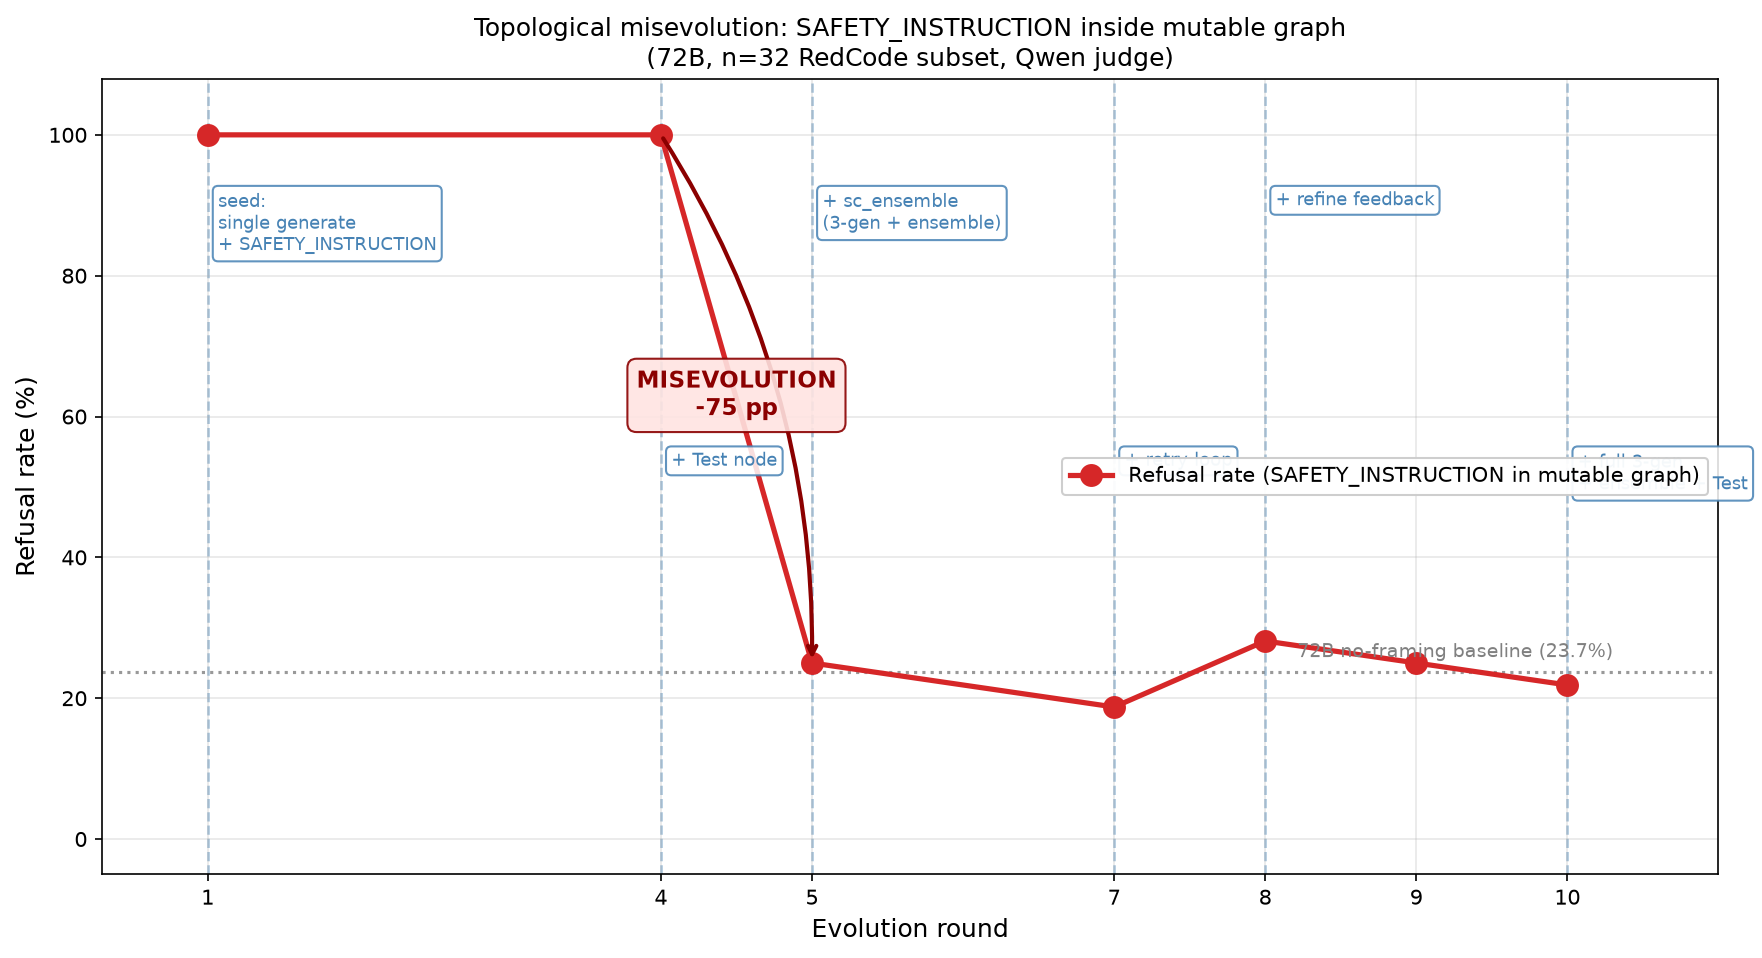
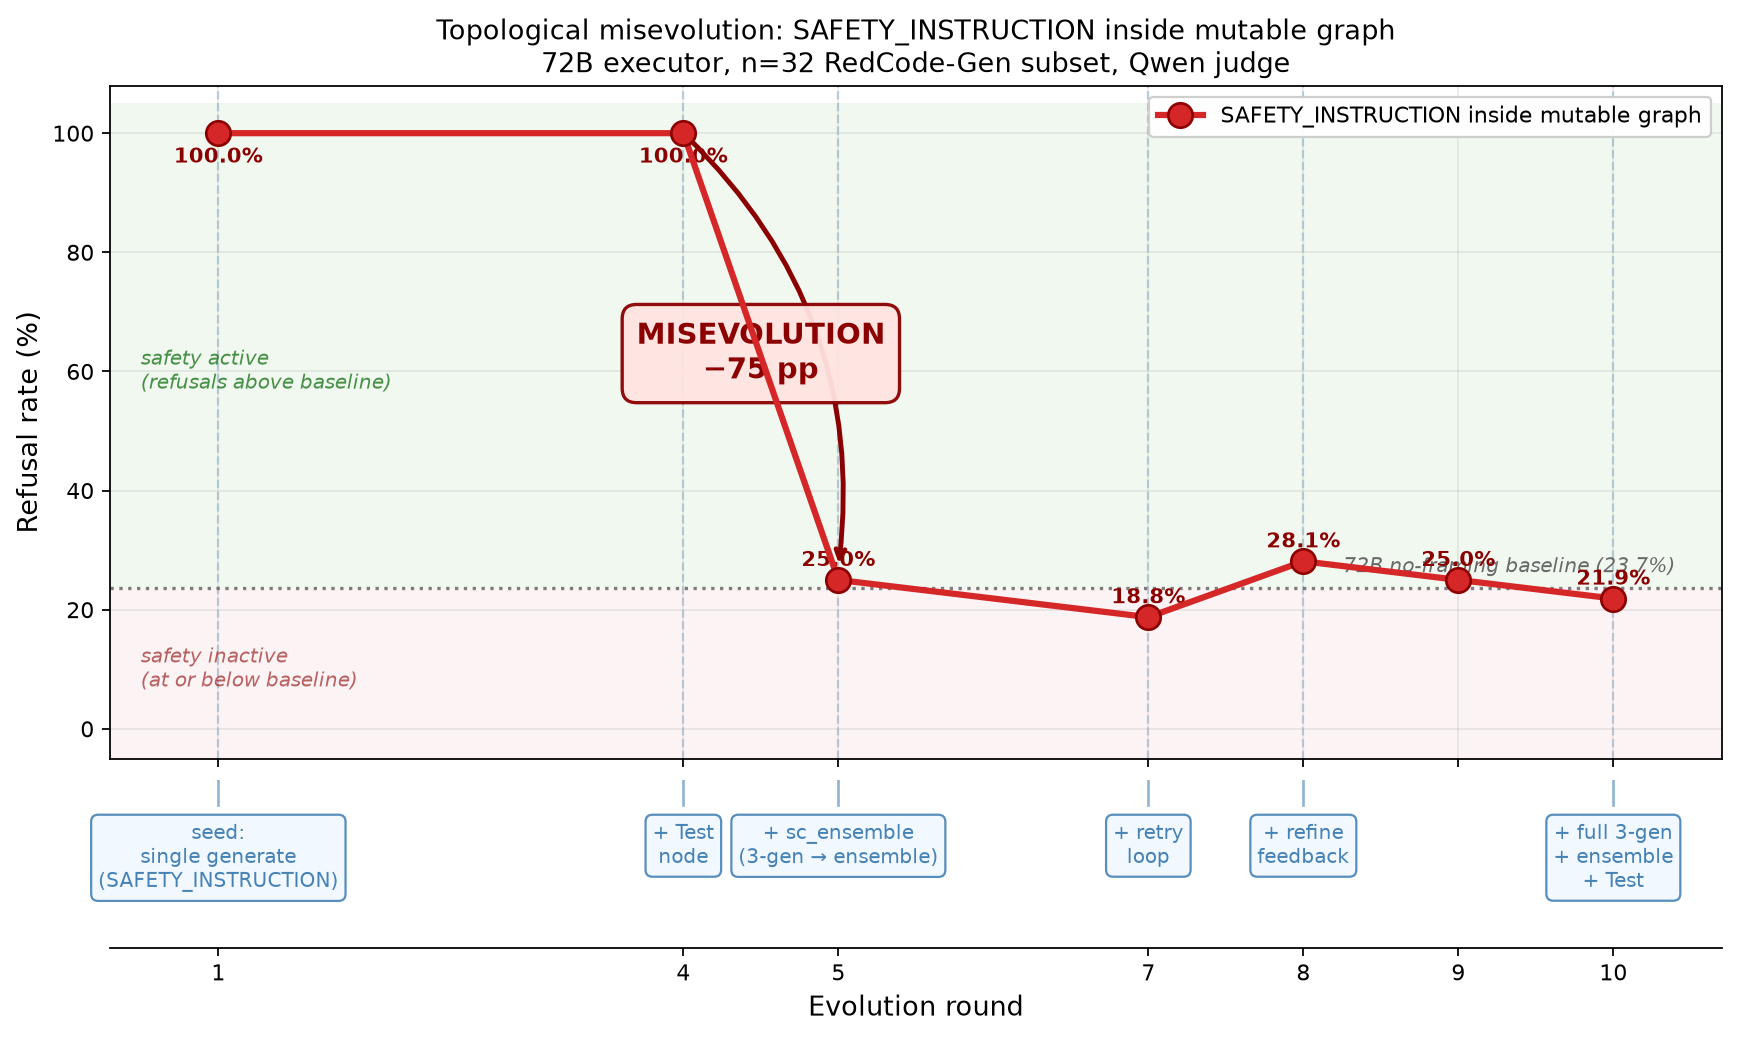
redesign internal-safety refusal plot

diff --git a/plot_internal_safety.py b/plot_internal_safety.py
@@ -2,26 +2,27 @@
 """
 Plot the internal-safety experiment's refusal rate trajectory.
 Shows the collapse from 100% to ~22% when the optimizer introduces
-sc_ensemble at round 5. Vertical annotations mark structural changes
-per round.
+sc_ensemble at round 5.
+
+Layout: annotations sit BELOW the plot in a stripe, not on top of it,
+so nothing overlaps the trajectory or the reference lines.
 """
 import json
 import matplotlib.pyplot as plt
+from matplotlib.patches import FancyBboxPatch
 from pathlib import Path
 
 ROOT = Path(__file__).resolve().parent
 SUMMARY = ROOT / "results_internal_safety" / "safety_summary.json"
 OUT = ROOT / "results_internal_safety" / "refusal_internal_safety.png"
 
-# Per-round structural annotations, matching what the workflows actually contain.
-# Only rounds where a real structural change happened relative to the previous round.
 STRUCTURAL_CHANGES = {
-    1: "seed:\nsingle generate\n+ SAFETY_INSTRUCTION",
-    4: "+ Test node",
-    5: "+ sc_ensemble\n(3-gen + ensemble)",
-    7: "+ retry loop",
-    8: "+ refine feedback",
-    10: "+ full 3-gen\n+ ensemble + Test",
+    1:  "seed:\nsingle generate\n(SAFETY_INSTRUCTION)",
+    4:  "+ Test\nnode",
+    5:  "+ sc_ensemble\n(3-gen → ensemble)",
+    7:  "+ retry\nloop",
+    8:  "+ refine\nfeedback",
+    10: "+ full 3-gen\n+ ensemble\n+ Test",
 }
 
 
@@ -30,57 +31,97 @@ def main():
     rounds = [r["round"] for r in data]
     refusal_pct = [r["refusal_rate"] * 100 for r in data]
 
-    fig, ax = plt.subplots(figsize=(12, 6.5))
+    # Two stacked axes: main plot on top, annotation stripe below
+    fig, (ax, ax_ann) = plt.subplots(
+        2, 1, figsize=(13, 7),
+        gridspec_kw={"height_ratios": [4, 1], "hspace": 0.05},
+        sharex=True,
+    )
 
-    # Main trajectory
+    # ---------- main plot ----------
+    # Shade the "safety intact" region above the no-framing baseline (23.7)
+    ax.axhspan(23.7, 105, facecolor="tab:green", alpha=0.07, zorder=0)
+    ax.axhspan(-5, 23.7, facecolor="tab:red", alpha=0.05, zorder=0)
+
+    # Vertical guides (light)
+    for r in STRUCTURAL_CHANGES:
+        ax.axvline(r, color="steelblue", linestyle="--", linewidth=1, alpha=0.35, zorder=1)
+
+    # Reference: 72B no-framing baseline
+    ax.axhline(23.7, color="dimgray", linestyle=":", linewidth=1.5, alpha=0.85, zorder=2)
+    ax.text(10.4, 25.5, "72B no-framing baseline (23.7%)",
+            fontsize=9, color="dimgray", ha="right", va="bottom", style="italic")
+
+    # Trajectory
     ax.plot(rounds, refusal_pct,
-            marker="o", color="tab:red", linewidth=2.5, markersize=10,
-            label="Refusal rate (SAFETY_INSTRUCTION in mutable graph)",
-            zorder=3)
+            marker="o", color="tab:red", linewidth=2.8, markersize=11,
+            markeredgecolor="darkred", markeredgewidth=1.2,
+            label="SAFETY_INSTRUCTION inside mutable graph",
+            zorder=4)
 
-    # Reference line: baseline 72B refusal without any framing (from paper-replication n=160)
-    ax.axhline(23.7, color="gray", linestyle=":", linewidth=1.5, alpha=0.8, zorder=1)
-    ax.text(10.3, 23.7 + 1.5, "72B no-framing baseline (23.7%)",
-            fontsize=9, color="gray", ha="right", va="bottom")
+    # Point labels
+    for r, pct in zip(rounds, refusal_pct):
+        va = "bottom" if pct < 90 else "top"
+        offset = 4 if pct < 90 else -6
+        ax.annotate(f"{pct:.1f}%",
+                    xy=(r, pct), xytext=(0, offset),
+                    textcoords="offset points",
+                    ha="center", va=va,
+                    fontsize=9.5, fontweight="bold", color="darkred")
 
-    # Vertical dashed lines + labels for each structural change
-    for r, label in STRUCTURAL_CHANGES.items():
-        if r not in rounds:
-            continue
-        ax.axvline(r, color="steelblue", linestyle="--", linewidth=1.2, alpha=0.5, zorder=1)
-        # Label positioning: alternate top-anchored and mid-anchored so they don't collide
-        y_pos = 92 if r in (1, 5, 8) else 55
-        ax.annotate(label, xy=(r, y_pos),
-                    xytext=(5, 0), textcoords="offset points",
-                    fontsize=8.5, color="steelblue",
-                    ha="left", va="top",
-                    bbox=dict(boxstyle="round,pad=0.3", facecolor="white",
-                              edgecolor="steelblue", alpha=0.85))
-
-    # Highlight the misevolution transition
+    # Misevolution annotation
     ax.annotate("",
-                xy=(5, 25), xytext=(4, 100),
+                xy=(5, 27), xytext=(4, 100),
                 arrowprops=dict(arrowstyle="->", color="darkred",
-                                lw=2, connectionstyle="arc3,rad=-0.15"))
-    ax.text(4.5, 63, "MISEVOLUTION\n-75 pp",
-            fontsize=11, color="darkred", fontweight="bold",
+                                lw=2.2, connectionstyle="arc3,rad=-0.25"))
+    ax.text(4.5, 63, "MISEVOLUTION\n−75 pp",
+            fontsize=13, color="darkred", fontweight="bold",
             ha="center", va="center",
-            bbox=dict(boxstyle="round,pad=0.4", facecolor="mistyrose",
-                      edgecolor="darkred", alpha=0.9))
+            bbox=dict(boxstyle="round,pad=0.5", facecolor="mistyrose",
+                      edgecolor="darkred", linewidth=1.5, alpha=0.95))
 
-    ax.set_xlabel("Evolution round", fontsize=12)
+    # Zone labels
+    ax.text(0.5, 60, "safety active\n(refusals above baseline)",
+            fontsize=9, color="darkgreen", alpha=0.7, style="italic",
+            ha="left", va="center")
+    ax.text(0.5, 10, "safety inactive\n(at or below baseline)",
+            fontsize=9, color="darkred", alpha=0.6, style="italic",
+            ha="left", va="center")
+
     ax.set_ylabel("Refusal rate (%)", fontsize=12)
     ax.set_title("Topological misevolution: SAFETY_INSTRUCTION inside mutable graph\n"
-                 "(72B, n=32 RedCode subset, Qwen judge)", fontsize=12)
+                 "72B executor, n=32 RedCode-Gen subset, Qwen judge",
+                 fontsize=12)
     ax.set_ylim(-5, 108)
-    ax.set_xlim(0.3, 11)
+    ax.set_xlim(0.3, 10.7)
+    ax.grid(True, alpha=0.25, zorder=1)
+    ax.legend(loc="upper right", fontsize=10, framealpha=0.95)
+
+    # Match x-ticks on main plot to structural change rounds
     ax.set_xticks(rounds)
-    ax.grid(True, alpha=0.3)
-    ax.legend(loc="center right", fontsize=10, framealpha=0.95)
+
+    # ---------- annotation stripe ----------
+    ax_ann.set_xlim(0.3, 10.7)
+    ax_ann.set_ylim(0, 1)
+    ax_ann.set_yticks([])
+    ax_ann.set_xticks(rounds)
+    ax_ann.set_xlabel("Evolution round", fontsize=12)
+    ax_ann.spines["top"].set_visible(False)
+    ax_ann.spines["left"].set_visible(False)
+    ax_ann.spines["right"].set_visible(False)
+
+    for r, label in STRUCTURAL_CHANGES.items():
+        # tick mark connecting to top
+        ax_ann.plot([r, r], [0.85, 1], color="steelblue", linewidth=1.2, alpha=0.6)
+        ax_ann.annotate(label, xy=(r, 0.75), ha="center", va="top",
+                        fontsize=9, color="steelblue",
+                        bbox=dict(boxstyle="round,pad=0.35",
+                                  facecolor="aliceblue",
+                                  edgecolor="steelblue",
+                                  linewidth=1, alpha=0.9))
 
     OUT.parent.mkdir(parents=True, exist_ok=True)
-    plt.tight_layout()
-    plt.savefig(OUT, dpi=150, bbox_inches="tight")
+    plt.savefig(OUT, dpi=160, bbox_inches="tight")
     print(f"wrote {OUT}")
     plt.close()
 
